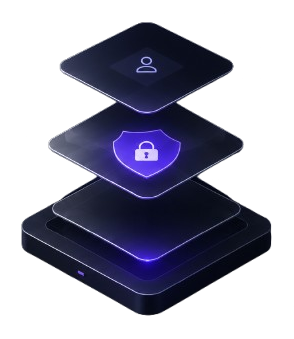
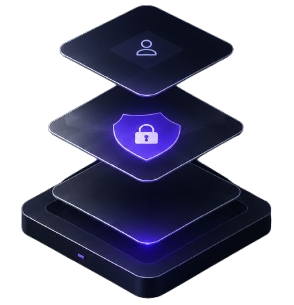
feat: update layout for LandingPage and replace modular security image

diff --git a/main-app/app/page.tsx b/main-app/app/page.tsx
@@ -437,7 +437,7 @@ export default function LandingPage() {
           </div>
 
           {/* Grid Layout (Flat, borderless, cardless) */}
-          <div className="grid grid-cols-1 lg:grid-cols-12 gap-12 lg:gap-16 items-start">
+          <div className="grid grid-cols-1 lg:grid-cols-12 gap-12 lg:gap-16 items-center">
             
             {/* Left Column: Vertical Interactive Options (col-span-6) */}
             <div className="lg:col-span-6 flex flex-col gap-6">
@@ -496,10 +496,10 @@ export default function LandingPage() {
             </div>
 
             {/* Right Column: Flat visual presentation (col-span-6) */}
-            <div className="lg:col-span-6 flex flex-col gap-10 items-center justify-center">
+            <div className="lg:col-span-6 flex flex-col items-center lg:items-end justify-center w-full">
               
               {/* Image Frame (Flat, transparent, borderless) */}
-              <div className="w-full max-w-[450px] aspect-square flex items-center justify-center relative select-none">
+              <div className="relative w-full max-w-[450px] aspect-square select-none">
                 <Image
                   src="/modular-security.png"
                   alt="Modular Smart Wallet Security Stack"
@@ -737,235 +737,7 @@ export default function LandingPage() {
         </div>
       </section>
 
-      {/* Relocated Subscription Showcase Section - High-Fidelity Professional Console Simulator */}
-      <section className="relative w-full bg-background py-28 lg:py-36 px-6 sm:px-12 lg:px-20 z-20 overflow-hidden">
-        <div className="max-w-7xl mx-auto grid grid-cols-1 lg:grid-cols-12 gap-16 lg:gap-24 items-start relative z-10">
-          
-          {/* Left Column: Premium Editorial Typography & Details */}
-          <div className="lg:col-span-5 flex flex-col gap-10">
-            <div className="flex flex-col gap-6">
-              <h2 className="text-4xl sm:text-5xl lg:text-[3.25rem] font-bold tracking-tight text-foreground leading-[1.05] font-serif">
-                Subscriptions <br />built for the <span className="text-ring font-semibold">internet</span>
-              </h2>
-              <p className="text-zinc-400 text-sm sm:text-base leading-relaxed max-w-lg font-medium">
-                Arca is a USDC-native subscription protocol designed for modern applications. Simple to integrate, powerful to scale.
-              </p>
-            </div>
 
-            {/* Premium Vertical Editorial Benefits List */}
-            <div className="flex flex-col gap-8">
-              {[
-                { number: "01", title: "USDC Native", desc: "Direct, borderless settlements with zero gas complexity. Paid entirely in stablecoins." },
-                { number: "02", title: "Flexible Billing", desc: "Predictable subscription checkouts with custom frequencies, trials, and grace periods." },
-                { number: "03", title: "Secure by Design", desc: "Smart contract automated renewals, non-custodial custody, and active dunning protection." }
-              ].map((item) => (
-                <div key={item.number} className="flex gap-6 items-start group">
-                  <span className="text-xs font-mono font-bold tracking-widest text-ring/60 pt-1 transition-colors group-hover:text-ring">
-                    {item.number}
-                  </span>
-                  <div className="flex flex-col">
-                    <span className="text-base font-bold text-foreground tracking-tight">{item.title}</span>
-                    <span className="text-xs text-zinc-500 mt-1.5 leading-relaxed font-medium">{item.desc}</span>
-                  </div>
-                </div>
-              ))}
-            </div>
-
-            <div className="flex flex-row items-center gap-6 mt-4">
-              <Link href="/login" className="flex h-12 px-7 items-center justify-center gap-2 rounded-full bg-ring text-white text-xs font-bold uppercase tracking-wider hover:bg-ring/90 transition-all cursor-pointer shadow-lg shadow-ring/5">
-                <span>Start Building</span>
-                <ArrowRight className="h-4 w-4" />
-              </Link>
-              <Link href="/docs" className="text-ring hover:text-ring/80 font-bold text-xs uppercase tracking-widest flex items-center gap-1.5 cursor-pointer ml-1 transition-colors">
-                <span>Explore SDK Docs</span>
-                <ArrowUpRight className="h-3.5 w-3.5" />
-              </Link>
-            </div>
-          </div>
-
-          {/* Right Column: High-Fidelity, State-of-the-Art Interactive Subscription Console */}
-          <motion.div
-            className="lg:col-span-7 w-full"
-            initial={{ opacity: 0, y: 32 }}
-            whileInView={{ opacity: 1, y: 0 }}
-            viewport={{ once: true }}
-            transition={{ duration: 1.2, ease: [0.16, 1, 0.3, 1], delay: 0.1 }}
-          >
-            <div className="flex flex-col gap-8 w-full bg-muted/15 rounded-3xl p-8 sm:p-10 relative overflow-hidden select-none">
-              {/* Subtle background visual highlights */}
-              <div className="absolute top-[-10%] right-[-10%] w-[40%] h-[30%] bg-ring rounded-full blur-[120px] opacity-[0.06] pointer-events-none" />
-              
-              {/* Console Header bar */}
-              <div className="flex items-center justify-between pb-6 border-b border-border/10">
-                <div className="flex items-center gap-2.5">
-                  <span className="h-2 w-2 rounded-full bg-ring animate-pulse" />
-                  <span className="text-[10px] font-mono tracking-[0.25em] text-ring uppercase font-bold">LIVE SUBSCRIPTION CONSOLE</span>
-                </div>
-                <span className="text-[9px] font-mono text-zinc-500 uppercase tracking-widest">STATE: ACTIVE_RUN</span>
-              </div>
-
-              {/* Console Core Section Layout: Two-Column details */}
-              <div className="grid grid-cols-1 md:grid-cols-12 gap-8 items-start">
-                
-                {/* Panel A: Core Plan State & Ledger Table (col-span-7) */}
-                <div className="md:col-span-7 flex flex-col gap-6">
-                  
-                  {/* Active Wallet detail */}
-                  <div className="flex flex-col">
-                    <span className="text-[9px] font-mono tracking-wider text-zinc-500 uppercase">Onchain Account</span>
-                    <span className="text-sm font-mono font-bold text-foreground mt-1 tracking-tight">0x8a3c...7f2e</span>
-                  </div>
-
-                  {/* Pricing detail */}
-                  <div className="flex items-center gap-4 py-3 px-4 bg-muted/30 rounded-2xl w-fit">
-                    <div className="h-10 w-10 rounded-full bg-ring/10 flex items-center justify-center text-ring shrink-0">
-                      <Package className="h-5 w-5" />
-                    </div>
-                    <div>
-                      <div className="flex items-center gap-2">
-                        <span className="text-sm font-bold text-foreground">Pro Plan</span>
-                        <span className="text-[8px] font-mono font-bold text-ring bg-ring/15 px-1.5 py-0.5 rounded uppercase tracking-wider">Live</span>
-                      </div>
-                      <div className="text-[11px] text-zinc-400 mt-0.5">29.00 USDC / Month</div>
-                    </div>
-                  </div>
-
-                  {/* Micro Ledger of transactions */}
-                  <div className="flex flex-col gap-3 mt-2">
-                    <span className="text-[9px] font-mono tracking-wider text-zinc-500 uppercase">Payment History Ledger</span>
-                    
-                    <div className="flex flex-col gap-2">
-                      {[
-                        { date: "May 25, 2024", hash: "0x4a9d...b38e", amount: "29.00 USDC", status: "Settled" },
-                        { date: "Apr 25, 2024", hash: "0x1f2c...d74c", amount: "29.00 USDC", status: "Settled" }
-                      ].map((tx, idx) => (
-                        <div key={idx} className="flex items-center justify-between py-2 px-3 bg-muted/20 hover:bg-muted/40 rounded-xl transition-all text-[11px] font-mono text-zinc-300">
-                          <span className="text-zinc-500">{tx.date}</span>
-                          <span className="font-semibold text-zinc-400">{tx.hash}</span>
-                          <span className="font-bold text-foreground">{tx.amount}</span>
-                          <span className="text-ring font-bold flex items-center gap-1.5">
-                            <span className="h-1 w-1 rounded-full bg-ring" />
-                            {tx.status}
-                          </span>
-                        </div>
-                      ))}
-                    </div>
-                  </div>
-
-                </div>
-
-                {/* Panel B: Smart Contract Automated Lifecycle Timeline (col-span-5) */}
-                <div className="md:col-span-5 flex flex-col gap-6">
-                  <span className="text-[9px] font-mono tracking-wider text-zinc-500 uppercase">Smart Contract Engine</span>
-                  
-                  {/* Vertical Timeline State Machine */}
-                  <div className="relative flex flex-col gap-6 pl-5 border-l border-border/10">
-                    
-                    {/* Stepper Active Line progress */}
-                    <div className="absolute left-[-1px] top-2 bottom-12 w-[1.5px] bg-ring/30">
-                      <div className="absolute top-0 left-0 w-full h-[65%] bg-ring" />
-                    </div>
-
-                    {[
-                      { step: "01", status: "INITIALIZED", desc: "Subscription state provisioned on ledger.", done: true },
-                      { step: "02", status: "AUTHORIZED", desc: "Allowance confirmed via Circle CPW.", done: true },
-                      { step: "03", status: "SETTLED", desc: "USDC bridged & debited successfully.", done: true },
-                      { step: "04", status: "PENDING", desc: "Next automated charge on Jun 25, 2024.", done: false }
-                    ].map((item, idx) => (
-                      <div key={idx} className="relative flex flex-col gap-1 items-start">
-                        {/* Timeline Node dot */}
-                        <div className={`absolute left-[-26px] top-1 h-3.5 w-3.5 rounded-full flex items-center justify-center transition-all ${
-                          item.done 
-                            ? "bg-ring border-4 border-background" 
-                            : "bg-muted border-4 border-background outline-[1.5px] outline outline-zinc-600 animate-pulse"
-                        }`} />
-                        
-                        <div className="flex items-center gap-1.5">
-                          <span className="text-[9px] font-mono font-bold tracking-widest text-zinc-500">
-                            {item.step}
-                          </span>
-                          <span className={`text-[10px] font-mono font-bold uppercase tracking-wider ${item.done ? "text-ring" : "text-zinc-400"}`}>
-                            {item.status}
-                          </span>
-                        </div>
-                        <span className="text-[10px] text-zinc-500 leading-snug font-medium">
-                          {item.desc}
-                        </span>
-                      </div>
-                    ))}
-
-                  </div>
-
-                </div>
-
-              </div>
-
-              {/* Panel C: Live Developer Integration State (Footer parameters) */}
-              <div className="mt-4 pt-6 border-t border-border/10 flex flex-col sm:flex-row items-stretch sm:items-center justify-between gap-4 text-[10px] font-mono text-zinc-400">
-                <div className="flex items-center gap-3">
-                  <span className="text-zinc-600">URL //</span>
-                  <span className="text-foreground font-semibold">https://api.arca.io/v1/webhook</span>
-                </div>
-                <div className="flex items-center justify-between sm:justify-start gap-4">
-                  <div className="flex items-center gap-1.5">
-                    <span className="h-1.5 w-1.5 rounded-full bg-[#10b981]" />
-                    <span className="text-zinc-500">WEBHOOK_STATUS:</span>
-                    <span className="text-[#10b981] font-bold">ACTIVE</span>
-                  </div>
-                  <Link href="/docs" className="text-ring font-bold hover:text-ring/80 transition-colors uppercase tracking-wider text-[9px] flex items-center gap-1 shrink-0">
-                    Explore API
-                    <ArrowUpRight className="h-3 w-3" />
-                  </Link>
-                </div>
-              </div>
-
-            </div>
-          </motion.div>
-
-          {/* Bottom Banner: 4-Column Feature Row */}
-          <motion.div
-            className="col-span-1 lg:col-span-12 mt-16 pt-10 grid grid-cols-2 lg:grid-cols-4 gap-8"
-            initial={{ opacity: 0, y: 20 }}
-            whileInView={{ opacity: 1, y: 0 }}
-            viewport={{ once: true }}
-            transition={{ duration: 1.1, ease: [0.16, 1, 0.3, 1], delay: 0.2 }}
-          >
-            {[
-              {
-                title: "Global",
-                desc: "Borderless payments with USDC",
-                icon: Globe,
-              },
-              {
-                title: "99.99%",
-                desc: "Uptime SLA. Enterprise reliability",
-                icon: Zap,
-              },
-              {
-                title: "Secure",
-                desc: "Funds protected with industry best practices",
-                icon: ShieldCheck,
-              },
-              {
-                title: "Developer First",
-                desc: "API-first. Webhooks. SDKs. Open source.",
-                icon: Code2,
-              },
-            ].map((feature) => (
-              <div key={feature.title} className="flex items-center gap-4 group">
-                <div className="h-12 w-12 rounded-xl bg-ring/10 flex items-center justify-center text-ring shrink-0 transition-all duration-300">
-                  <feature.icon className="h-5 w-5" />
-                </div>
-                <div>
-                  <div className="text-sm font-bold text-foreground">{feature.title}</div>
-                  <div className="text-xs text-muted-foreground mt-0.5 leading-relaxed font-medium">{feature.desc}</div>
-                </div>
-              </div>
-            ))}
-          </motion.div>
-
-        </div>
-      </section>
 
       {/* Infrastructure & Resources Bento Grid Section */}
       <section id="infrastructure" className="relative w-full bg-background pt-24 pb-16 px-6 sm:px-12 lg:px-20 z-20 overflow-hidden">
